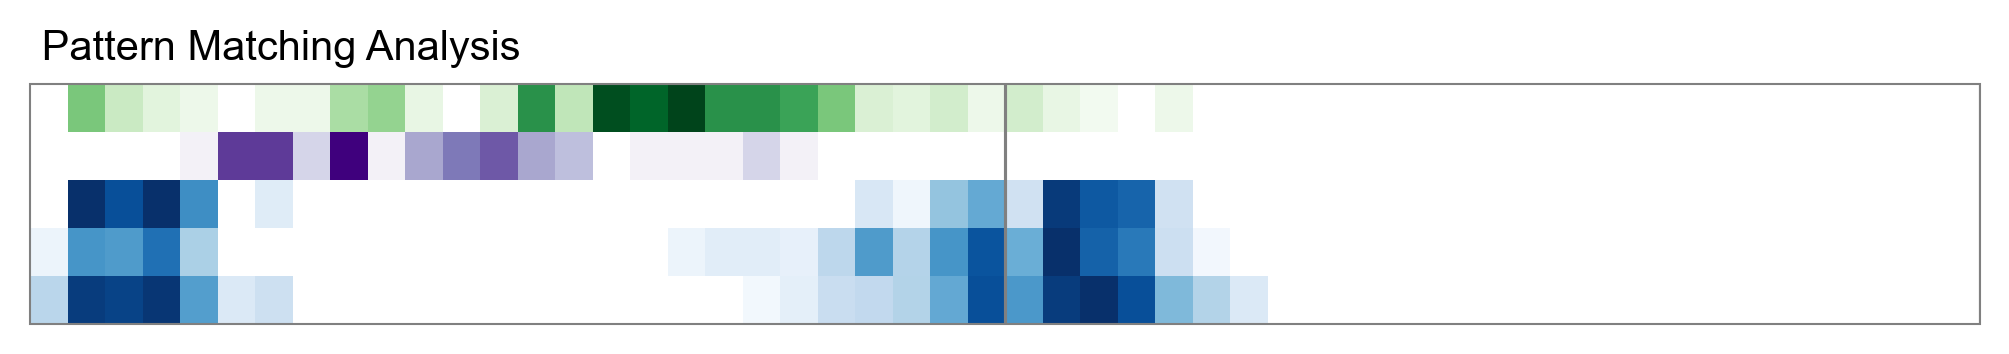
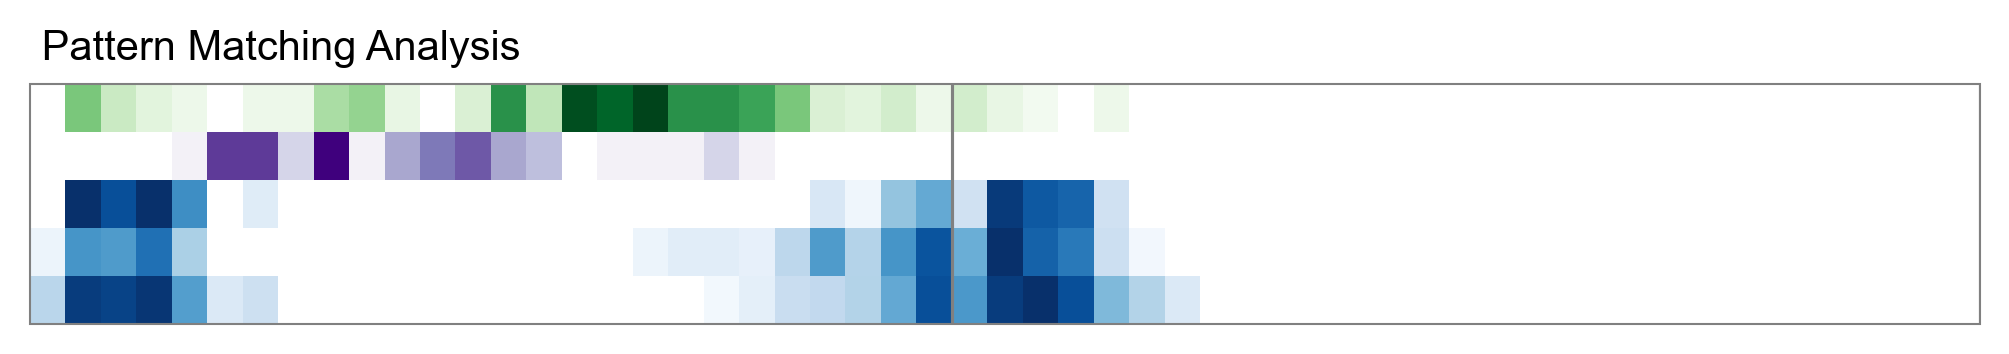
Error handling to support the case where there is pattern matching data but no other data

Changed region(s): [[0.0309, 0.2175, 0.6481, 0.9322], [0.4629, 0.2175, 0.5555, 0.3729], [0.0309, 0.2486, 0.0926, 0.3729]]

diff --git a/TRBLSummarizer/TRBLSummarizer.py b/TRBLSummarizer/TRBLSummarizer.py
@@ -487,11 +487,24 @@ def load_data() -> pd.DataFrame:
                      index_col = [data_col[date_str]])
     return df
 
+#TODO Is this needed
+def set_pm_data_date_range(pm_data:pd.DataFrame, date_range_dict:dict) -> pd.DataFrame:
+    df_temp = pm_data
+
+    if len(df_temp):
+        pass #anything to do?
+    else: # if the file is empty, make an empty table so the graphing code has something to work with
+        df_temp[date_str] = pd.date_range(date_range_dict[start_str], date_range_dict[end_str])
+        df_temp[validated] = 0
+        #pt = pt.reindex(date_range).fillna(0)
+
+    return df_temp
+
 # Load the pattern matching CSV files into a dataframe, validate that the columns are what we expect
 # These are the files from all the folders named by site. 
 # Note that if there is no data, then there will be an empty file
-# However, if there any missing files then we should return an empty DF
-def load_pm_data(site:str, date_range_dict:dict) -> pd.DataFrame:
+# However, if there are any missing files then we should return an empty DF
+def load_pm_data(site:str) -> pd.DataFrame:
 
     # For each type of file for this site, try to load the file. 
     # Add a column to indicate which type it is. Then append it to the dataframe we're building.
@@ -513,14 +526,20 @@ def load_pm_data(site:str, date_range_dict:dict) -> pd.DataFrame:
                 #TODO: what if the number of columns is wrong, just continue and get an exception or somehow fail?
                 confirm_columns(site_columns, headers, fname)
 
-                df_temp = pd.read_csv(full_file_name, usecols=usecols)
+                df_temp = pd.read_csv(full_file_name, 
+                                      usecols=usecols)
+                
+                #make a new column that has the date in it
                 df_temp[date_str] = df_temp.apply(lambda row: make_date(row), axis=1)
+                #df_temp['date'] = pd.to_datetime(df[['year', 'month', 'day']])
+                #need to make this the index so it looks like the main dataframe
 
-            else: # if the file is empty, make an empty table so the graphing code has something to work with
-                df_temp[date_str] = pd.date_range(date_range_dict[start_str], date_range_dict[end_str])
-                df_temp[validated] = 0
-                #pt = pt.reindex(date_range).fillna(0)
-
+                df_temp = df_temp.set_index(date_str)
+            else:
+                #missing file, so log it and break, because if anything is missing then we abandon ship  
+                log_error(f"Missing pattern matching file {full_file_name}")
+                return pd.DataFrame()
+            
             df_temp['type'] = t
             df = pd.concat([df, df_temp])
 
@@ -1016,7 +1035,7 @@ def save_figure(site:str, graph_type:str, delete_only=False):
     if os.path.isfile(figure_path):
         os.remove(figure_path)
     
-    if not delete_only:
+    if not delete_only and plt.gcf().get_axes():
         # save the original image
         plt.savefig(figure_path, dpi='figure', bbox_inches='tight')
         
@@ -1026,22 +1045,22 @@ def save_figure(site:str, graph_type:str, delete_only=False):
         #Figure out where the labels are. There's probably a way to do this in one call ...
         #maybe check the last axis?
         if graph_type == graph_weather:
-            if plt.gcf().get_axes(): #Only do this if there are any axes to graph, the weather could be empty
-                ax = plt.gcf().get_axes()[0] #in the weather graph, the labels are in the first axis
-                legend = ax.get_legend()
-                bb = legend.get_bbox_to_anchor().transformed(ax.transAxes.inverted())
-                yOffset = 0.25
-                bb.y0 += yOffset
-                bb.y1 += yOffset
-                legend.set_bbox_to_anchor(bb, transform = ax.transAxes)
+            ax = plt.gcf().get_axes()[0] #in the weather graph, the labels are in the first axis
+            legend = ax.get_legend()
+            bb = legend.get_bbox_to_anchor().transformed(ax.transAxes.inverted())
+            yOffset = 0.25
+            bb.y0 += yOffset
+            bb.y1 += yOffset
+            legend.set_bbox_to_anchor(bb, transform = ax.transAxes)
         else:
             ax = plt.gca() #in the other graphs, it's in the last axis
         #Go find the month labels and remove them
+
         for ge in ax.texts:
             #if the word 'data' is there then it's one of the error messages, otherwise it's a month
             if 'data' not in ge.get_text():
                 ge.remove()
-        
+    
         # Now save the cleaned up version
         filename = site + ' - ' + graph_type + ' clean.png'
         figure_path = figure_dir / filename
@@ -1183,7 +1202,9 @@ def combine_images(site:str, month_locs:dict):
             images = [Image.open(f) for f in site_fig_list]
             composite = concat_images(*images)
             composite = concat_images(*[composite, Image.open(legend)], is_legend=True)
-            composite = concat_images(*[composite, Image.open(site_fig_dict[graph_weather])])
+            #Add the weather graph only if it exists, to prevent an error if we haven't obtained it yet
+            if graph_weather in site_fig_dict.keys():
+                composite = concat_images(*[composite, Image.open(site_fig_dict[graph_weather])])
             final = apply_decorations_to_composite(composite, month_locs)
             final.save(composite_path)
     return
@@ -1193,7 +1214,8 @@ def output_graph(site:str, graph_type:str, save_files:bool, make_all_graphs:bool
         if make_all_graphs:
             pass
         else:
-            st.write(graph)
+            if graph.get_axes():
+                st.write(graph)
             
         if make_all_graphs or save_files:
             save_figure(site, graph_type)
@@ -1449,7 +1471,7 @@ def style_cells(v):
     result = ''
     if v == 0:
         result = zeroprops
-    elif isinstance(v, pd.Timestamp.now()): #if it's a date, do nothing
+    elif isinstance(v, pd.Timestamp): #if it's a date, do nothing
         result = ''
     else: #it must be a non-date, non-zero value so format it to call it out
         result = nonzeroprops
@@ -1620,11 +1642,14 @@ def get_first_and_last_dates(pt_site: pd.DataFrame) -> dict:
     return output
 
 
+# ===========================================================================================================
+# ===========================================================================================================
 #
+#  Main
 #
-# Main
-#
-#
+# ===========================================================================================================
+# ===========================================================================================================
+
 init_logging()
 
 st.sidebar.title('TRBL Grapher')
@@ -1660,6 +1685,11 @@ for site in target_sites:
     site_counter += 1
     # Select the site matching the one of interest
     df_site = df[df[data_col[site_str]] == site]
+    date_range_dict = {}
+    pt_manual = pd.DataFrame()
+    pt_mini_manual = pd.DataFrame()
+    pt_edge = pd.DataFrame()
+
 
     if not df_site.empty:
         #Using the site of interest, get the first & last dates and give the user the option to customize the range
@@ -1705,7 +1735,6 @@ for site in target_sites:
         #   3. For tags that end in N, make a pivot table that follows more complicated logic, described below
         #   4. Merge all the tables together so we get one block of heatmaps
 
-        pt_edge = pd.DataFrame()
         have_edge_data = False
         has_ync = 'has_ync'
         ync_tag = 'ync_tag'
@@ -1786,25 +1815,36 @@ for site in target_sites:
             pt_for_tag = make_pivot_table(df_for_tag, date_range_dict, preserve_edges=True, label_dict = tag_dict)
             pt_edge = pd.concat([pt_edge, pt_for_tag])
 
-
     else:
         st.write('Site {} has no recordings'.format(site))
 
     #
     # PATTERN MATCHING ANALYSIS
     #
-    df_pattern_match = load_pm_data(site, date_range_dict)
-    pt_pm = pd.DataFrame()
+    #Load all the PM files, any errors will return an empty table. For later graphing purposes, 
+    df_pattern_match = load_pm_data(site)
     pm_data_empty = False
-    if len(df_pattern_match):
-        for t in pm_file_types:
-            #For each file type, get the filtered range of just that type
-            df_for_file_type = df_pattern_match[df_pattern_match['type']==t]
-            pm_data_empty = pm_data_empty or len(df_for_file_type)
-            #Build the pivot table for it
-            pt_for_file_type = make_pattern_match_pt(df_for_file_type, t, date_range_dict)
-            #Concat as above
-            pt_pm = pd.concat([pt_pm, pt_for_file_type])
+    pt_pm = pd.DataFrame()
+
+    if not df_pattern_match.empty:
+        #In the scenario where we have PM data but no other data, we need to generate the date range
+        if date_range_dict:
+            pm_date_range_dict = date_range_dict
+        else:
+            pm_date_range_dict = get_date_range(df_pattern_match, make_all_graphs)
+
+        if len(df_pattern_match):
+            for t in pm_file_types:
+                #For each file type, get the filtered range of just that type
+                df_for_file_type = df_pattern_match[df_pattern_match['type']==t]
+                pm_data_empty = pm_data_empty or len(df_for_file_type)
+                #Build the pivot table for it
+                pt_for_file_type = make_pattern_match_pt(df_for_file_type, t, pm_date_range_dict)
+                #Concat as above
+                pt_pm = pd.concat([pt_pm, pt_for_file_type])
+    else:
+        st.write("All pattern matching data not available -- missing some or all files")
+
 
     # ------------------------------------------------------------------------------------------------
     # DISPLAY
@@ -1817,54 +1857,59 @@ for site in target_sites:
         show_station_info(site)
 
     #list of month positions in the graphs
-    month_locs = {}  
+    month_locs = {} 
+    #default color map
+    cmap = {data_col[malesong]:'Greens', data_col[courtsong]:'Oranges', data_col[altsong2]:'Purples', data_col[altsong1]:'Blues', 'bad':'Black'}
 
     # Manual analyisis graph
-    cmap = {data_col[malesong]:'Greens', data_col[courtsong]:'Oranges', data_col[altsong2]:'Purples', data_col[altsong1]:'Blues', 'bad':'Black'}
-    graph = create_graph(df = pt_manual, 
-                        row_names = song_cols, 
-                        cmap = cmap, 
-                        title = graph_man) # add this if we want to include the site name (site + ' ' if save_files else '')
-    # Need to be able to build an image that looks like the graph labels so that it can be drawn
-    # at the top of the composite. So, try to pull out the month positions for each graph as we don't 
-    # know which graph will be non-empty. Once we have them, we don't need to get again (as we don't want)
-    # to accidentally delete our list
-    if len(month_locs)==0:
-        month_locs = get_month_locs_from_graph() 
-    output_graph(site, graph_man, save_files, make_all_graphs, len(df_manual))
+    if not pt_manual.empty:
+        graph = create_graph(df = pt_manual, 
+                            row_names = song_cols, 
+                            cmap = cmap, 
+                            title = graph_man) # add this if we want to include the site name (site + ' ' if save_files else '')
+        # Need to be able to build an image that looks like the graph labels so that it can be drawn
+        # at the top of the composite. So, try to pull out the month positions for each graph as we don't 
+        # know which graph will be non-empty. Once we have them, we don't need to get again (as we don't want)
+        # to accidentally delete our list
+        if len(month_locs)==0:
+            month_locs = get_month_locs_from_graph() 
+        output_graph(site, graph_man, save_files, make_all_graphs, len(df_manual))
 
     # MiniManual Analysis
-    graph = create_graph(df = pt_mini_manual, 
-                        row_names = song_cols, 
-                        cmap = cmap, 
-                        raw_data = df_site,
-                        draw_vert_rects = True,
-                        title = 'Mini Manual Analysis')
-    if len(month_locs)==0:
-        month_locs = get_month_locs_from_graph() 
-    output_graph(site, graph_miniman, save_files, make_all_graphs, len(df_mini_manual))
+    if not pt_mini_manual.empty:
+        graph = create_graph(df = pt_mini_manual, 
+                            row_names = song_cols, 
+                            cmap = cmap, 
+                            raw_data = df_site,
+                            draw_vert_rects = True,
+                            title = 'Mini Manual Analysis')
+        if len(month_locs)==0:
+            month_locs = get_month_locs_from_graph() 
+        output_graph(site, graph_miniman, save_files, make_all_graphs, len(df_mini_manual))
 
     # Pattern Matching Analysis
-    cmap_pm = {'Male':'Greens', 'Female':'Purples', 'Young Nestling':'Blues', 'Mid Nestling':'Blues', 'Old Nestling':'Blues'}
-    graph = create_graph(df = pt_pm, 
-                        row_names = pm_file_types, 
-                        cmap = cmap_pm, 
-                        title = graph_pm) 
-    if len(month_locs)==0:
-        month_locs = get_month_locs_from_graph() 
-    output_graph(site, graph_pm, save_files, make_all_graphs, pm_data_empty)
+    if not pt_pm.empty:
+        cmap_pm = {'Male':'Greens', 'Female':'Purples', 'Young Nestling':'Blues', 'Mid Nestling':'Blues', 'Old Nestling':'Blues'}
+        graph = create_graph(df = pt_pm, 
+                            row_names = pm_file_types, 
+                            cmap = cmap_pm, 
+                            title = graph_pm) 
+        if len(month_locs)==0:
+            month_locs = get_month_locs_from_graph() 
+        output_graph(site, graph_pm, save_files, make_all_graphs, pm_data_empty)
 
     # Edge Analysis
-    cmap_edge = {c:'Oranges' for c in edge_c_cols} | {n:'Blues' for n in edge_n_cols} # the |" is used to merge dicts
-    graph = create_graph(df = pt_edge, 
-                        row_names = edge_cols,
-                        cmap = cmap_edge, 
-                        raw_data = df_site,
-                        draw_horiz_rects = True,
-                        title = graph_edge)
-    if len(month_locs)==0:
-        month_locs = get_month_locs_from_graph() 
-    output_graph(site, graph_edge, save_files, make_all_graphs, have_edge_data)
+    if not pt_edge.empty:
+        cmap_edge = {c:'Oranges' for c in edge_c_cols} | {n:'Blues' for n in edge_n_cols} # the |" is used to merge dicts
+        graph = create_graph(df = pt_edge, 
+                            row_names = edge_cols,
+                            cmap = cmap_edge, 
+                            raw_data = df_site,
+                            draw_horiz_rects = True,
+                            title = graph_edge)
+        if len(month_locs)==0:
+            month_locs = get_month_locs_from_graph() 
+        output_graph(site, graph_edge, save_files, make_all_graphs, have_edge_data)
 
     #Create a graphic for our legend
     draw_cmap(cmap)
@@ -1919,13 +1964,14 @@ if not make_all_graphs and len(df_site):
         summary.append(make_summary_pt(pt_pm, pm_file_types, friendly_names))
 
         #Add weather at the end
-        weather_data = pd.DataFrame()
-        for t in weather_cols:
-            weather_data = pd.concat([weather_data, weather_by_type[t]['value']], axis=1)
-            weather_data.rename(columns={'value':t}, inplace=True)
-            if t != weather_prcp:
-                weather_data[t] = weather_data[t].astype(int)
-        summary.append(weather_data)
+        if len(weather_by_type):
+            weather_data = pd.DataFrame()
+            for t in weather_cols:
+                weather_data = pd.concat([weather_data, weather_by_type[t]['value']], axis=1)
+                weather_data.rename(columns={'value':t}, inplace=True)
+                if t != weather_prcp:
+                    weather_data[t] = weather_data[t].astype(int)
+            summary.append(weather_data)
 
         # The variable Summary is a list of each dataframe. Now, take all the data and concat it into 
         #a single table
@@ -1940,7 +1986,10 @@ if not make_all_graphs and len(df_site):
         # Learn about formatting
         # https://pandas.pydata.org/pandas-docs/stable/user_guide/style.html#
         union_pt = union_pt.style.map(style_cells)
-        union_pt.format(formatter={'PRCP':'{:.2f}', 'Date':lambda x:x.strftime('%m-%d-%y')})
+    
+        #Apply formatting to the weather if the weather data is there
+        if len(weather_by_type):
+            union_pt.format(formatter={'PRCP':'{:.2f}', 'Date':lambda x:x.strftime('%m-%d-%y')})
         st.dataframe(union_pt)
 
     # Put a box with first and last dates for the Song columns, with counts on that date
